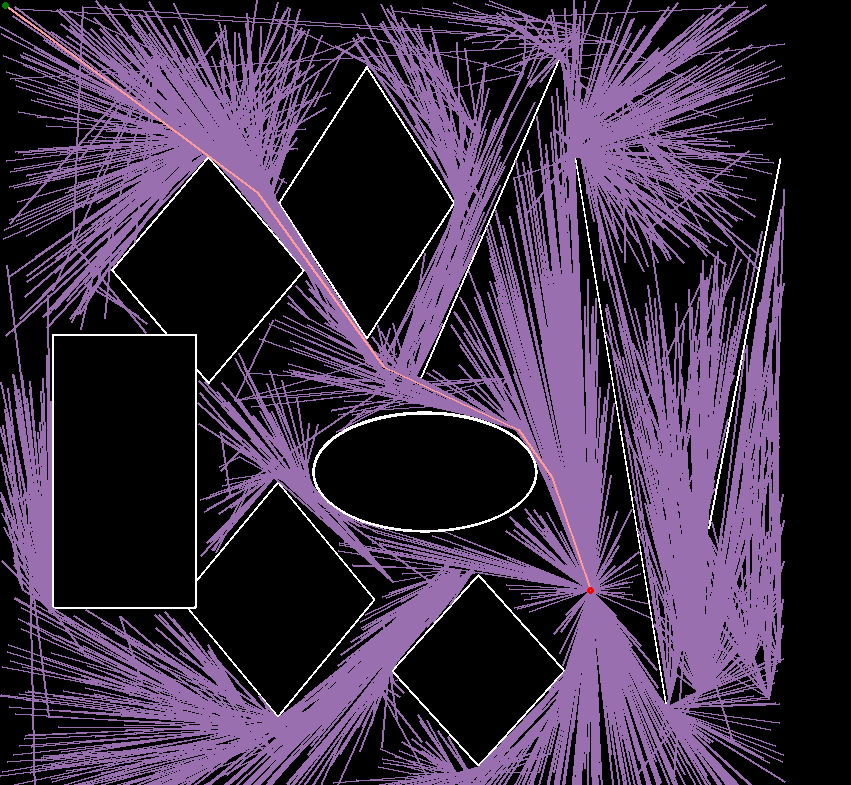
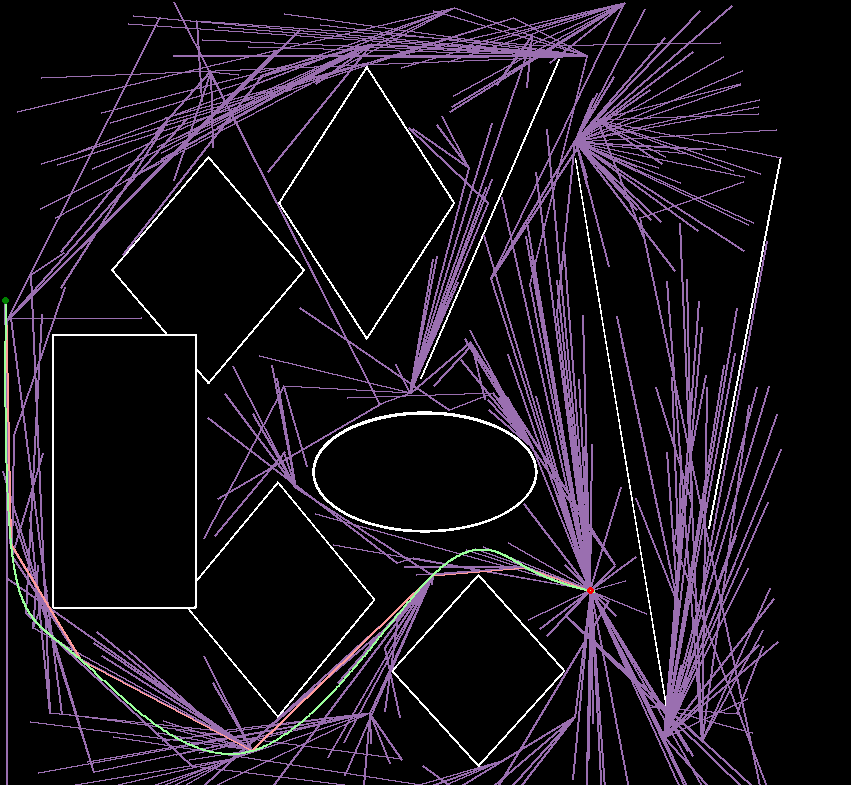
Smoothing works.

diff --git a/utils/spline.py b/utils/spline.py
@@ -1,0 +1,57 @@
+import numpy as np
+from scipy.interpolate import CubicSpline
+# import matplotlib.pyplot as plt
+
+
+def smooth_path(start: (int, int), end: (int, int), waypoints: [(int, int)]):
+    print(start, end, waypoints)
+    start = np.array(start)
+    end = np.array(end)
+    waypoints = np.array(waypoints)
+    # Concatenate start, end, and waypoints
+    waypoints = np.vstack([start, waypoints, end])
+
+    # Create parameter values for each point
+    t = np.arange(len(waypoints))
+
+    # Create a cubic spline interpolation
+    cs = CubicSpline(t, waypoints, bc_type='clamped')
+
+    # Generate a finer parameterization for a smoother curve
+    t_smooth = np.linspace(0, len(waypoints) - 1, 1000)
+
+    # Evaluate the cubic spline at the smoother parameterization
+    smoothed_path = cs(t_smooth)
+
+    return smoothed_path
+
+
+def convert_to_coordinates(smoothed_path):
+    # Extract x and y coordinates from the smoothed path
+    x_coordinates = smoothed_path[:, 0]
+    y_coordinates = smoothed_path[:, 1]
+
+    # Combine x and y coordinates into a list of coordinate pairs
+    coordinates = list(zip(x_coordinates, y_coordinates))
+
+    return coordinates
+
+# Example usage:
+# start_point = np.array([0, 0])
+# end_point = np.array([20, 10])
+# waypoints = np.array([[2, 5], [5, 7], [15, 1]])
+#
+# smoothed_path = smooth_path(start_point, end_point, waypoints)
+#
+# # Plot the original waypoints and the smoothed path
+# plt.plot(waypoints[:, 0], waypoints[:, 1], 'ro', label='Waypoints')
+# plt.plot(smoothed_path[:, 0], smoothed_path[:, 1], 'b-', label='Smoothed Path')
+# plt.scatter([start_point[0], end_point[0]], [start_point[1], end_point[1]], c='g', marker='s',
+#             label='Start/End Points')
+#
+# plt.legend()
+# plt.xlabel('X-coordinate')
+# plt.ylabel('Y-coordinate')
+# plt.title('Smoothed Path using Cubic Splines')
+# plt.grid(True)
+# plt.show()

diff --git a/rtt.py b/rtt.py
@@ -1,12 +1,10 @@
 import random
 import math
-import time
 
 import pygame
-from line_cross import line_cross_check
-from a_star import astar
+from utils.line_cross import line_cross_check
 
-from render import image_to_grid, grid_to_image, render_path
+from utils.render import image_to_grid, grid_to_image, render_path
 
 grid = image_to_grid('./maps/img_3.png')
 
@@ -341,8 +339,6 @@ def treeSearch(num_iters, start, end, angle, dist):
         edges[end] = best
         edges_as_list.append((best, end))
 
-    print(edges)
-
     # current_end = end
     # current_start = start
     # while current_end != current_start:
@@ -360,5 +356,10 @@ def treeSearch(num_iters, start, end, angle, dist):
 
 # nodes = newRTT(400, (10, 10), (300, 300))
 # nodes = rtt(400, (10, 10), (300, 300))
-edges = treeSearch(3000, (590, 590), (5, 5), math.radians(45), 25)
+edges = treeSearch(500, (590, 590), (5, 300), math.radians(45), 25)
 # print(astar(nodes, (10, 10), (300, 300), distance))
+
+print("Finished.")
+
+### NOTE: I believe this can even tell when a path is impossible by seeing if the end of the
+# route from the end never reaches the start?

diff --git a/utils/render.py b/utils/render.py
@@ -1,5 +1,7 @@
 from PIL import Image, ImageDraw
 
+from utils.spline import smooth_path, convert_to_coordinates
+
 white = (255, 255, 255, 255)
 black = (0, 0, 0, 255)
 red = (255, 0, 0, 100)
@@ -85,10 +87,21 @@ def render_path(grid, edges, coordinate_pairs, output_path):
     # start = (start[1], start[0])
     # end = (end[1], end[0])
 
+    waypoints = []
+
     current = end
     while current != start:
         draw.line([current, edges[current]], fill=red, width=2)
         current = edges[current]
+        waypoints.append(list(current))
+
+    smoothed_path = [(round(x[0]), round(x[1])) for x in convert_to_coordinates(smooth_path(list(
+        end), list(start), waypoints))]
+    print(smoothed_path)
+
+    for coord in range(len(smoothed_path[:-1])):
+        draw.line([smoothed_path[coord], smoothed_path[coord + 1]], fill=green, width=2)
+
 
 
     box = (start[0] - 3, start[1] - 3, start[0] + 3, start[1] + 3)
